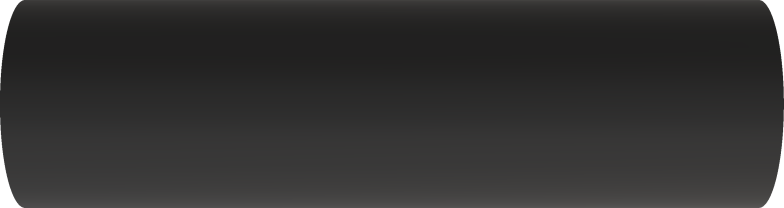
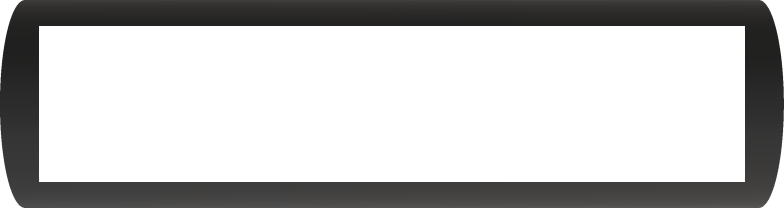
Control image frames and hover effects

diff --git a/partillery/controls.py b/partillery/controls.py
@@ -3,7 +3,7 @@
 # https://stackoverflow.com/questions/57962130/how-can-i-change-the-brightness-of-an-image-in-pygame
 
 import pygame
-from pygame.sprite import Sprite as DirtySprite, Group as Group
+from pygame.sprite import DirtySprite, LayeredDirty
 
 import partillery.utils as utils
 
@@ -21,12 +21,12 @@ class ControlPanel:
         self.rect = self.image.get_rect()
         self.rect.x = x
         self.rect.y = y
-        self.controls = Group()
+        self.controls = LayeredDirty()
 
         # Create controls and other elements
-        self.build(config)
-        self.controls.draw(self.image)
         self.screen.blit(self.image, self.rect)
+        self.build(config)
+        self.controls.draw(self.screen)
 
     # Calculate absolute center coordinates based on relative center
     # Returns a tuple to be used as rect.center
@@ -34,14 +34,17 @@ class ControlPanel:
         x_offset_percent = pos[0]
         y_offset_percent = pos[1]
         x = int(x_offset_percent * self.rect.w)
-        y = int(y_offset_percent * self.rect.h)
+        y = int(y_offset_percent * self.rect.h + self.rect.top)
         return x, y
 
     def add(self, control):
+        print('Adding :' + control.name)
+        print(isinstance(control, DirtySprite))
         self.controls.add(control)
         if control.title is not None:
             x = control.rect.centerx
-            y = int(control.rect.top / 2)
+            y = int((control.rect.top + self.rect.top) / 2)
+            # y = int(control.rect.top / 2)
             self.draw_title((x, y), str(control.title))
             # Draw the title once and for all. It is not a sprite and won't be updated ever.
 
@@ -49,7 +52,8 @@ class ControlPanel:
         text_surf = self.font.render(text, True, (255, 255, 255))
         text_surf_rect = text_surf.get_rect()
         text_surf_rect.center = pos
-        self.image.blit(text_surf, text_surf_rect)
+        self.screen.blit(text_surf, text_surf_rect)
+        pygame.display.update()
         # print(str(self.surf))
 
     def build(self, config):
@@ -78,12 +82,13 @@ class ControlPanel:
             layout = getattr(layout_all, name)
             center = self.set_center(layout.pos)
             img_name = layout.img
+            img_name_hover = layout.img_hover
             title = None
 
             if hasattr(layout, 'title'):
                 title = getattr(layout, 'title')
 
-            item = ClickableControl(name, img_name, img_scale_factor, center, title)
+            item = ClickableControl(name, img_name, img_name_hover, img_scale_factor, center, title)
 
             if hasattr(layout, 'overlay'):
                 overlay = getattr(layout, 'overlay')
@@ -102,31 +107,54 @@ class ControlPanel:
 # Child element can be a value viewer or a value bar with their own implementations and update mechanisms
 
 class ClickableControl(DirtySprite):
-    def __init__(self, name, img_name, img_scale_factor, center, title):
+    def __init__(self, name, img_name, img_name_hover, img_scale_factor, center, title):
         DirtySprite.__init__(self)
         self.name = name
         self.title = title
         self.overlay = None
-        self.clicked = False
-        self.hover = False
+        self.dirty = 1
+        self.visible = 1
 
-        self.image = scale(utils.load_image_resource(img_name), img_scale_factor)
+        self.image_regular = scale(utils.load_image_resource(img_name), img_scale_factor)
+        self.image_hover = scale(utils.load_image_resource(img_name_hover), img_scale_factor)
+        self.image = self.image_regular
 
         # Brightened image to show animation on hover
-        self.image_animate = self.image.copy()
-        self.image_animate.fill((10, 10, 10), special_flags=pygame.BLEND_RGB_SUB)
+        # self.image_hover = self.image.copy()
+        # self.image_hover.fill((20, 20, 20), special_flags=pygame.BLEND_RGB_SUB)
 
         # self.surf = self.image
         self.rect = self.image.get_rect()
         self.rect.center = center
 
-    def animate(self):
-        pass
+    def hover_on(self):
+        self.image = self.image_hover
+        self.dirty = 1
 
-    def update(self, *args):
-        self.animate()
+    def hover_off(self):
+        self.image = self.image_regular
+        self.dirty = 1
+
+    def click_down(self, current_player):
+        lock_mouse_to_control = False
+        if self.name in ['angle', 'power', 'power_bar']:
+            lock_mouse_to_control = True
+        elif self.name in ['angle_dec', 'angle_inc', 'power_dec', 'power_inc', 'fire']:
+            self.rect.centery += 2  # animate button depression
+            self.dirty = 1
+
+        return lock_mouse_to_control
+
+    def click_up(self, current_player):
+        if self.name in ['angle', 'power', 'power_bar']:
+            pass
+        elif self.name in ['angle_dec', 'angle_inc', 'power_dec', 'power_inc', 'fire']:
+            self.rect.centery -= 2  # un-animate button depression
+            self.dirty = 1
+
+    def update(self, text):
         if self.overlay is not None:
-            self.overlay.update()
+            self.overlay.update(text)
 
 
 class ValueViewer:

diff --git a/partillery/context/game.py b/partillery/context/game.py
@@ -1,11 +1,13 @@
 import random
+import sys
+from time import sleep
 
 import pygame
-from pygame.sprite import LayeredDirty
+from pygame.sprite import LayeredDirty, DirtySprite, Sprite
 
 from partillery import utils
 from partillery.controls import ControlPanel
-from partillery.core_sprites import Tank
+from partillery.core_sprites import Tank, Mouse
 from partillery.terrain import Terrain
 
 
@@ -19,7 +21,7 @@ class Game:
         self.screen = screen
         self.clock = clock
         self.config = config
-        self.mode = self.MODE_TEST
+        self.mode = self.MODE_CONTROL
         self.h = int(config.display.height * config.game.height_fraction)
         self.w = config.display.width
         self.surf = pygame.transform.scale(
@@ -27,6 +29,9 @@ class Game:
         self.rect = self.surf.get_rect()
         self.background = self.surf.copy()
         pygame.display.update()
+
+    def handle_events(self):
+        pass
 
     def run(self):
         # Alias key params so I don't have to type 'self' everywhere.
@@ -40,11 +45,13 @@ class Game:
         th = config.game.tank_height
         terr = Terrain(screen, self.w, self.h, 'Random')
         self.surf.blit(terr.surf, (0, 0))
-        background = self.surf.copy()
         screen.blit(self.surf, (0, 0))
+        game_bg = self.surf.copy()
         pygame.display.update()
 
         screen.set_clip(screen.get_rect())
+
+        mouse = Mouse(cpl.rect.center)
 
         p1_x = random.randint(0 + tw, int(self.w / 2 - tw))  # random loc in left half of the game area
         p2_x = random.randint(int(self.w / 2) + tw, int(self.w - tw))  # random loc in right half of the game area
@@ -58,10 +65,49 @@ class Game:
         objects.draw(screen)
         pygame.display.update()
 
+        current_player = player_1
+
         while True:
             while self.mode == self.MODE_CONTROL:
-                pygame.display.update()
-                clock.tick(frame_rate)
+                full_bg = screen.copy()
+                for event in pygame.event.get():
+
+                    if event.type == pygame.MOUSEMOTION:
+                        mouse.rect.center = event.pos
+                        active_control = pygame.sprite.spritecollideany(mouse, cpl.controls)
+
+                        if mouse.previous_control == active_control:
+                            pass
+                        elif mouse.previous_control is None:
+                            getattr(active_control, 'hover_on')()
+                        elif mouse.previous_control is not None:
+                            getattr(mouse.previous_control, 'hover_off')()
+
+                        mouse.previous_control = active_control
+
+                    if event.type == pygame.MOUSEBUTTONDOWN and event.button == 1:
+                        active_control = pygame.sprite.spritecollideany(mouse, cpl.controls)
+                        if active_control is not None:
+                            lock_mouse_to_control = getattr(active_control, 'click_down')(current_player)
+                        cpl.controls.clear(screen, full_bg)
+                        dirty_rects = cpl.controls.draw(screen)
+                        pygame.display.update(dirty_rects)
+                        clock.tick(frame_rate)
+
+                    elif event.type == pygame.MOUSEBUTTONUP and event.button == 1:
+                        active_control = pygame.sprite.spritecollideany(mouse, cpl.controls)
+                        if active_control is not None:
+                            lock_mouse_to_control = getattr(active_control, 'click_up')(current_player)
+                        cpl.controls.clear(screen, full_bg)
+                        dirty_rects = cpl.controls.draw(screen)
+                        pygame.display.update(dirty_rects)
+                        clock.tick(frame_rate)
+
+                    sleep(0.001)
+
+                    cpl.controls.draw(screen)
+                    pygame.display.update()
+                    clock.tick(frame_rate)
 
             while self.mode == self.MODE_FLIGHT:
                 pygame.display.update()
@@ -77,7 +123,7 @@ class Game:
                         done = True
                         break
 
-                    objects.clear(self.screen, background)
+                    objects.clear(self.screen, game_bg)
                     player_1.update(pos_x=p1_x)
                     player_2.update(pos_x=p2_x)
                     objects.draw(self.screen)

diff --git a/partillery/core_sprites.py b/partillery/core_sprites.py
@@ -2,7 +2,7 @@ import math
 
 from pygame import error, Surface, draw
 from pygame.rect import Rect
-from pygame.sprite import DirtySprite
+from pygame.sprite import DirtySprite, Sprite
 from pygame.transform import rotate
 
 from partillery import utils
@@ -19,7 +19,7 @@ class MovableAndRotatableObject(DirtySprite):
         self.image = utils.load_image_resource(img)
         self.image_original = self.image.copy()
         self.rect = self.image.get_rect()
-        self.dirty = 0
+        self.dirty = 1
 
     # In-place rotation
     def rotate_ip(self, rads):
@@ -157,3 +157,14 @@ class CrossHair(DirtySprite):
             self.rect.center = x, y
         else:
             self.rect.center = clipped[1]
+
+
+class Mouse(Sprite):
+    # Pseudo-sprite that is not drawn. Only to get collisions with controls.
+    def __init__(self, center):
+        super().__init__()
+        self.image = Surface((1, 1)).convert_alpha()
+        self.image.fill((255, 255, 255, 0))
+        self.rect = self.image.get_rect()
+        self.rect.center = center
+        self.previous_control = None  # Used for deactivating hover animation

diff --git a/partillery/context/root.py b/partillery/context/root.py
@@ -1,6 +1,5 @@
 import os
 import pygame
-
 import partillery.utils as utils
 from partillery.context.game import Game
 
@@ -22,6 +21,7 @@ class Root:
         pygame.display.set_caption(config.display.caption)
         screen = pygame.display.set_mode((config.display.width, config.display.height), pygame.RESIZABLE)
         pygame.display.set_icon(utils.load_image_resource('window_icon.png'))
+        pygame.event.set_allowed([pygame.MOUSEBUTTONUP, pygame.MOUSEBUTTONDOWN, pygame.MOUSEMOTION])
 
         # Launch
         self.context = Game(screen, clock, config)
